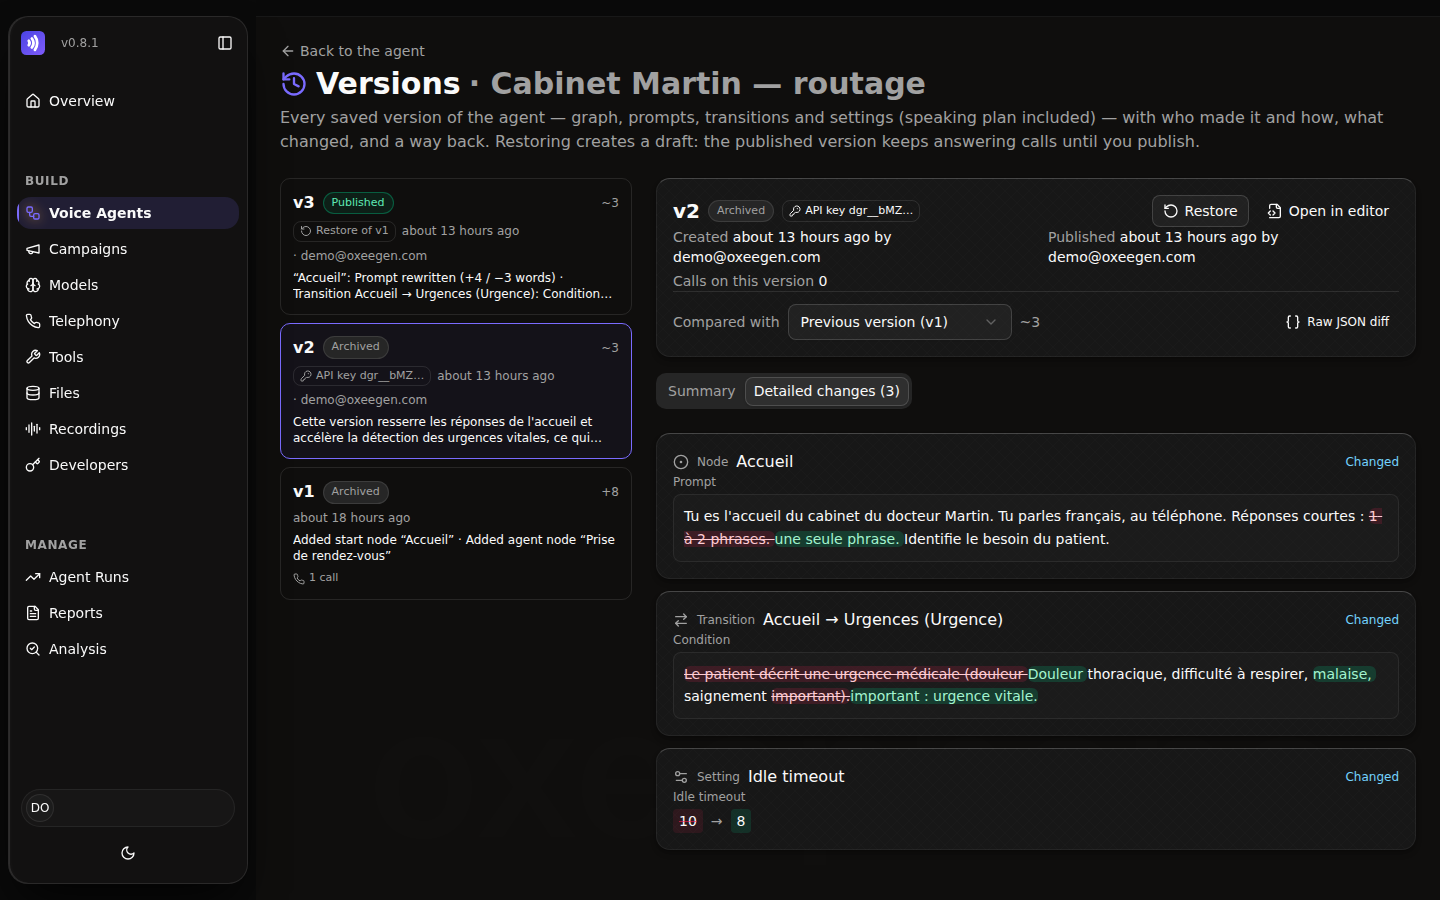
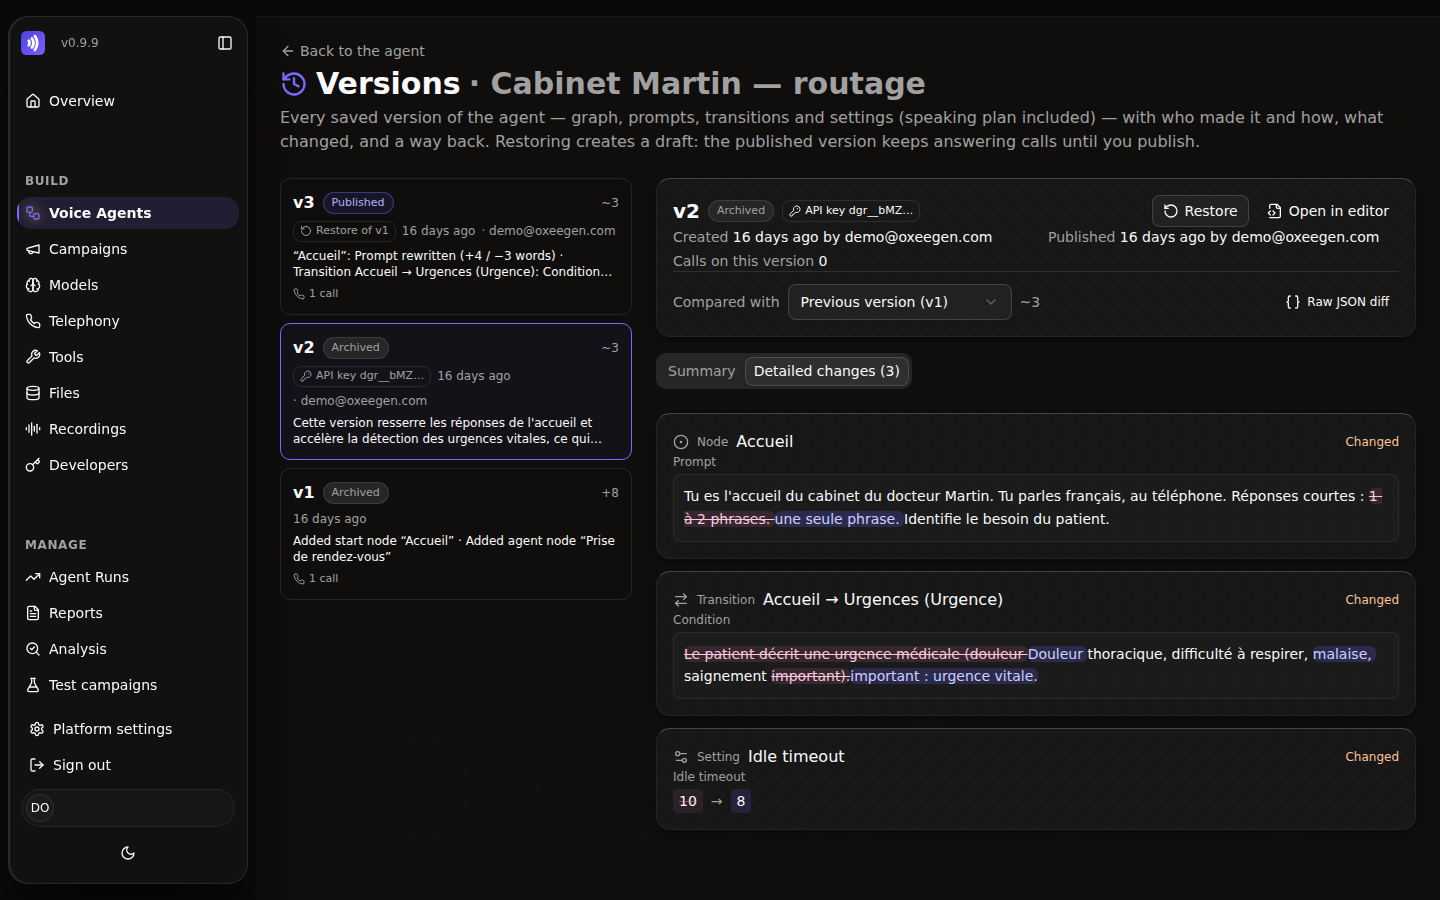
README and screenshots for 0.9.9
Home page, call review, latency with voice fluency, test campaign executions
and reports in the current colours; comparison legend names the colours.

diff --git a/ui/src/brand/tests/ComparePage.tsx b/ui/src/brand/tests/ComparePage.tsx
@@ -155,7 +155,7 @@ export function ComparePage({ a, b }: { a: string; b: string }) {
         </div>
       )}
 
-      <Section title="Indicators" subtitle="B against A. Green: better, red: worse.">
+      <Section title="Indicators" subtitle="B against A. Violet: better, raspberry: worse.">
         <Card className="overflow-x-auto p-0">
           <table className="w-full min-w-[560px] text-sm">
             <thead className="border-b border-border text-left text-xs text-muted-foreground">

diff --git a/.github/README.md b/.github/README.md
@@ -27,6 +27,9 @@
 
 - **Your models, your servers.** Every service (LLM, speech-to-text, voice, embeddings) runs on an
   OpenAI-compatible endpoint you host. No call to any third-party platform, no telemetry.
+- **Every call graded.** When a call ends, the analysis model reviews the agent and the platform
+  grades the technical side: a quality score and a technical score per call, and the day at a glance
+  on the home page.
 - **A call detail worth the name.** Recording with waveform, transcript synchronised with the audio,
   tool calls, per-stage latency, the path through your agent's nodes and why each move happened.
 - **Test campaigns.** Simulated callers, harder or easier at will, play scenarios written from your
@@ -39,6 +42,13 @@
 
 ## Features
 
+### The day at a glance
+
+The home page shows today's calls and their average quality and technical scores, against the day
+before and the last 7 days.
+
+<img src="/brand/assets/screenshots/13-home.png" alt="Home page: calls of the day, average quality and technical scores, last 7 days">
+
 ### Build agents
 
 A visual graph of conversation nodes linked by transitions, each with its prompt, tools and knowledge base.
@@ -48,8 +58,9 @@ A visual graph of conversation nodes linked by transitions, each with its prompt
 - **Speaking plans** per agent (Vapi-style): how long to wait before answering, smart endpointing,
   silence needed after a sentence / a number / an unfinished phrase, words or voice needed to
   interrupt the agent, back-off after an interruption.
-- **Call engine settings**: speaking plan, voice, performance (first audio chunk, voice detection,
-  LLM temperature and reply length) and audio & sampling, set for the platform and overridden per
+- **Call engine settings**: speaking plan, voice, performance (first audio chunk, first clause spoken
+  before the sentence ends, voice detection, LLM temperature, reply length, model thinking) and audio
+  & sampling (sound during an agent transfer included), set for the platform and overridden per
   agent, with the built-in values one click away.
 - **Versions**: every version keeps its author and origin (editor, API key, AI agent, restore,
   automatic fix), the number of calls it answered, a plain and an AI-written summary of its changes,
@@ -69,23 +80,31 @@ A visual graph of conversation nodes linked by transitions, each with its prompt
   serves. Bring your own vLLM, speaches or any OpenAI-compatible server.
 - Voice preview, speed, language and volume, **French text normalisation** (numbers, dates, hours)
   and a **pronunciation dictionary**.
-- Knowledge base parsed and embedded locally (PDF, DOCX).
+- Knowledge base parsed and embedded locally (PDF, DOCX), with a preview of Markdown and text files.
+- Recordings generated by your voice model (voice, speed, text), usable as an agent's greeting.
 
 ### Every call, in detail
 
 - Recording with caller / agent waveforms, speed control, download.
 - Transcript synchronised with the audio: the message being played is highlighted, click one to jump to it.
 - Tool calls with arguments and results, interruptions, events.
-- **Latency** per stage (endpointing, transcription, LLM, tools, first sentence, voice) and per turn.
+- **Latency** per stage and per turn: the time to first audio (from the end of the caller's turn),
+  apart from the end-of-turn wait set on the agent, and what the caller actually hears.
+- **Voice fluency**: how fast the voice is generated compared to how fast it is spoken, and the gaps
+  the caller heard.
 - **Routing**: the path through the agent's nodes, the condition behind each move and what the caller had just said.
+- **Call review**: the quality score (understanding, accuracy, concision, tone, resolution, with a
+  summary and what to improve) and the technical score of the call, post by post.
 
-<img src="/brand/assets/screenshots/03-call-latency.png" alt="Latency breakdown">
+<img src="/brand/assets/screenshots/14-call-review.png" alt="Call review: quality and technical scores of a call">
+
+<img src="/brand/assets/screenshots/03-call-latency.png" alt="Latency breakdown and voice fluency">
 
 <img src="/brand/assets/screenshots/routing-graph.gif" alt="Routing graph linked to the steps of the call">
 
 ### Reports
 
-Latency (median, p90, by stage, by day), token consumption and cache hit rate, interruptions, call
+Time to first audio (median, p90, by stage, by day), token consumption and cache hit rate, interruptions, call
 duration, tool reliability, routing between agents.
 
 <img src="/brand/assets/screenshots/05-reports.png" alt="Reporting insights">
@@ -114,18 +133,22 @@ Test an agent before publishing a change, with simulated callers.
    request clarity, complexity, depth in the agent, impatience, dictated data, traps, voice speed.
    The analysis model writes the scenarios from the agent's graph, one caller each: a persona, the
    facts it can give, success criteria, forbidden behaviours, expected end node, variables and tools.
-   Every scenario can be edited, duplicated into variants or switched off.
+   Every scenario can be edited, duplicated into variants or switched off; editing the campaign's
+   instructions revises the existing scenarios.
 2. **Play** the campaign on the published version, the draft or an older version, by phone (a tester
    agent calls the agent with its own voice, voice speed and impatience, from a real customer number)
-   or as text, as many times per scenario as needed. Tools are simulated, real, or real with an
-   `X-Oxee-Test` header. Test calls stay out of the production statistics.
+   or as text, as many times per scenario as needed. Tools are simulated (transfers, agent handoffs
+   and the pre-call lookup included), real, or real with an `X-Oxee-Test` header. The results fill in
+   live while the execution plays. Test calls stay out of the production statistics.
 3. **Judge**: every call is judged (goal, criteria with evidence, forbidden behaviours) and gets a
-   **quality score** and a **technical score** (reply time, end of turn, transcriber, LLM, voice,
-   tools, turn-taking, reliability, graded against the analysis thresholds). The report shows where
-   the agent starts failing as callers get harder, the coverage of its nodes and transitions, and
-   turns a failed call into an automatic fix.
+   **quality score** and a **technical score** (time to first audio, transcriber, LLM, voice, voice
+   fluency, tools, turn-taking, reliability, graded against the analysis thresholds). The report shows
+   where the agent starts failing as callers get harder, the coverage of its nodes and transitions,
+   each call's transcript, and turns a failed call into an automatic fix.
 4. **Compare** two executions: both scores, every indicator, the scenarios improved or regressed,
    and the configuration diff between the two versions tested.
+
+<img src="/brand/assets/screenshots/15-test-campaign.png" alt="Executions of a test campaign">
 
 <img src="/brand/assets/screenshots/11-test-execution.png" alt="Report of a test execution">
 

diff --git a/brand/CHANGELOG.md b/brand/CHANGELOG.md
@@ -5,6 +5,11 @@ OxeePhone versions are independent of the Dograh base version
 version lives in `ui/src/brand/brand.ts` and `api/brand/config.py` (a test
 keeps them equal).
 
+## Unreleased
+
+- Test comparisons: the legend names the new colours (violet: better, raspberry:
+  worse).
+
 ## 0.9.9 — 2026-10-16
 
 - Every call is graded when it ends, like the calls of a test campaign: a
